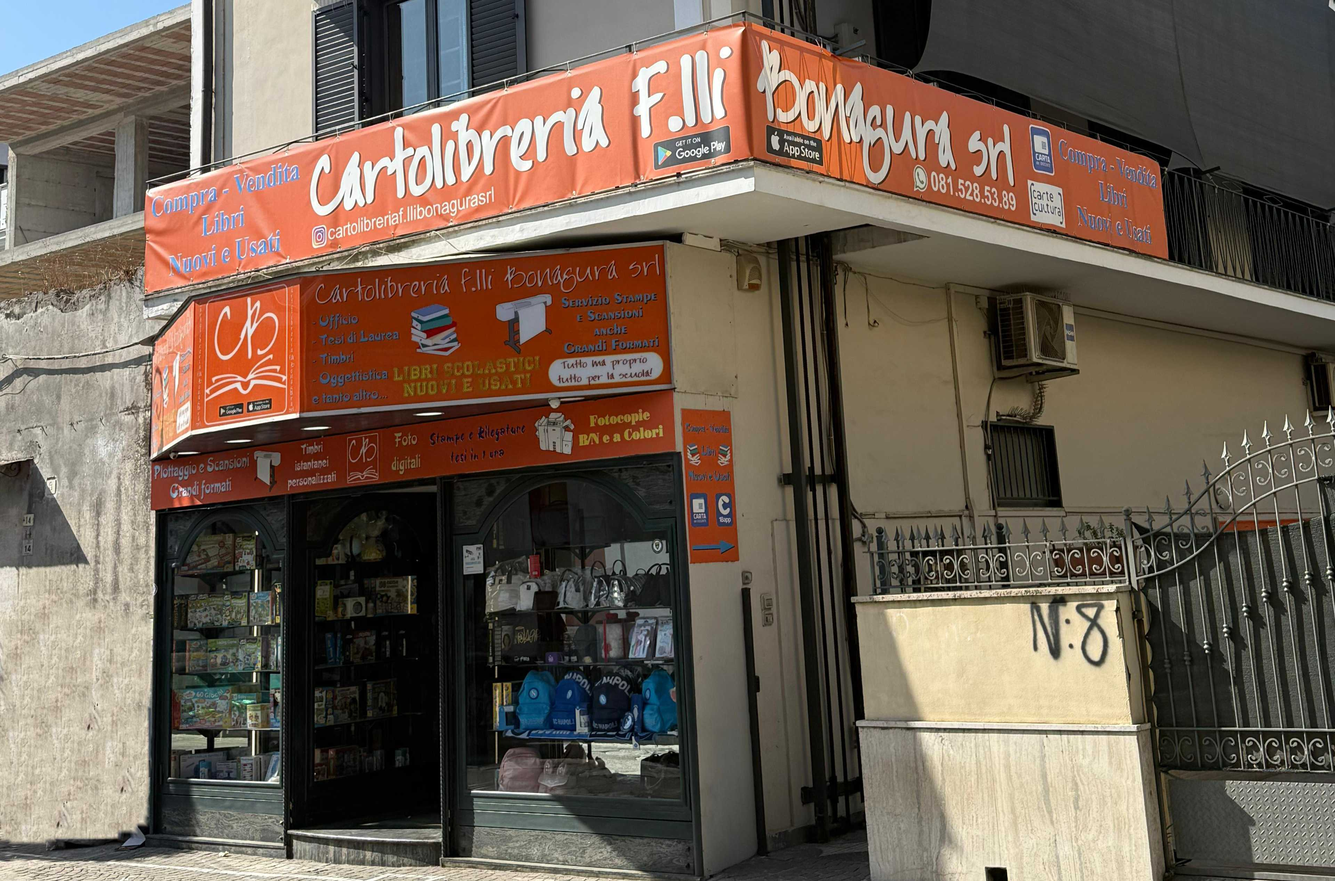
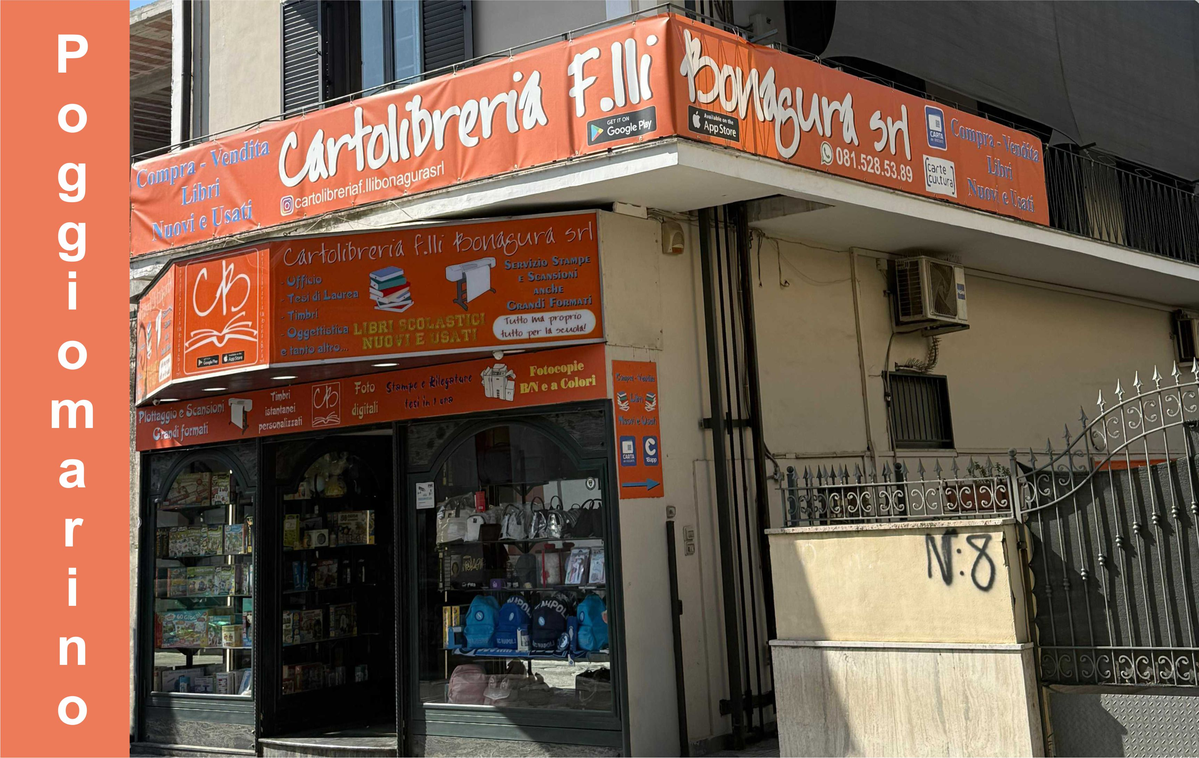
Aggiunta nuove immagini e minor fix

diff --git a/components/HomeComponent/Home.component.tsx b/components/HomeComponent/Home.component.tsx
@@ -18,6 +18,7 @@ const footerPath = "../../assets/images/onda.jpg";
 const footerPathTablet = "../../assets/images/onda_tablet.png";
 const adozioniPath = "../../assets/images/listaScuole.png";
 const appuntamentoPath = "../../assets/images/calendar.png";
+const semplicePath = "../../assets/images/simple.png";
 const personalAreaPath = "../../assets/images/areaRiservata.png";
 const ordersPath = "../../assets/images/ordini.png";
 
@@ -58,9 +59,8 @@ const HomeComponent: React.FC<{}> = () => {
                 {isLoading && <View style={gs.spinner} children={<Spinner size="large" />} />}
                 {!isLoading && <>
                     <TextComponent style={styles.welcome}> {stateUser?.nome ? ` Ciao, ${stateUser.nome.toUpperCase()}` : ""}</TextComponent>
-                    <TouchableOpacity style={{ ...styles.buttonImportant, backgroundColor: 'rgb(37, 211, 102)' }} onPress={() => router.push("/ComodamenteDaCasaView")}>
-                        <TextComponent style={{ color: 'white', fontSize: md + 2, textAlign: "center" }}> E' semplice acquistare e ordinare!</TextComponent>
-                        <TextComponent style={{ color: 'white', fontSize: md + 2, textAlign: "center" }}> Comodamente da casa...  come in negozio!</TextComponent>
+                    <TouchableOpacity style={{backgroundColor: 'rgb(37, 211, 102)' }} onPress={() => router.push("/ComodamenteDaCasaView")}>
+                        <Image style={styles.imgSimple} source={require(semplicePath)} />
                     </TouchableOpacity>
                     <View style={styles.buttonRow}>
                         <View style={styles.buttonContainer}>
@@ -108,10 +108,10 @@ const HomeComponent: React.FC<{}> = () => {
                         </View>
                     }
                     <View style={styles.buttonActionRow}>
-                        <TouchableOpacity style={{...styles.buttonImportant, marginTop: 10}} onPress={() => router.push("/NoticeView")}>
+                        <TouchableOpacity style={{ ...styles.buttonImportant, marginTop: 10 }} onPress={() => router.push("/NoticeView")}>
                             <TextComponent style={{ color: 'white', fontSize: md + 2 }}>Avvisi Importanti</TextComponent>
                         </TouchableOpacity>
-                        <TouchableOpacity style={{...styles.buttonImportant, marginTop: 10}} onPress={() => router.push("/WhyChoseUsView")}>
+                        <TouchableOpacity style={{ ...styles.buttonImportant, marginTop: 10 }} onPress={() => router.push("/WhyChoseUsView")}>
                             <TextComponent style={{ color: 'white', fontSize: md + 2 }}>Perché Sceglierci</TextComponent>
                         </TouchableOpacity>
                     </View>

diff --git a/components/HomeComponent/Home.styles.ts b/components/HomeComponent/Home.styles.ts
@@ -58,8 +58,13 @@ export const styles = StyleSheet.create({
     },
     image: {
         margin: "auto",
-        width: isTabletOrDesktop ? 200 : (Platform.OS === 'web' ? 75 : undefined),
-        height: isTabletOrDesktop ? 200 : (Platform.OS === 'web' ? 75 : undefined),
+        width: isTabletOrDesktop ? 150 : (Platform.OS === 'web' ? 65 : undefined),
+        height: isTabletOrDesktop ? 150 : (Platform.OS === 'web' ? 65 : undefined),
+    },
+    imgSimple: {
+        margin: "auto",
+        width: isTabletOrDesktop ? 1000 : (Platform.OS === 'web' ? 300 : undefined),
+        height: isTabletOrDesktop ? 150 : (Platform.OS === 'web' ? 55 : undefined),
     },
     imgBanner: {
         marginTop: 10,
